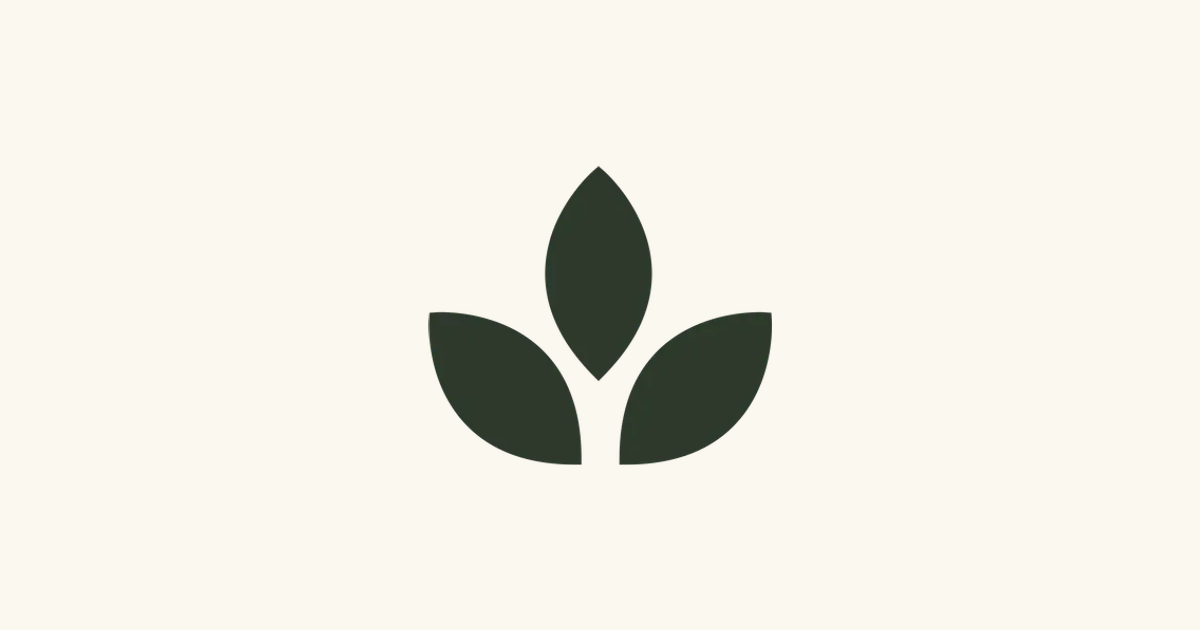
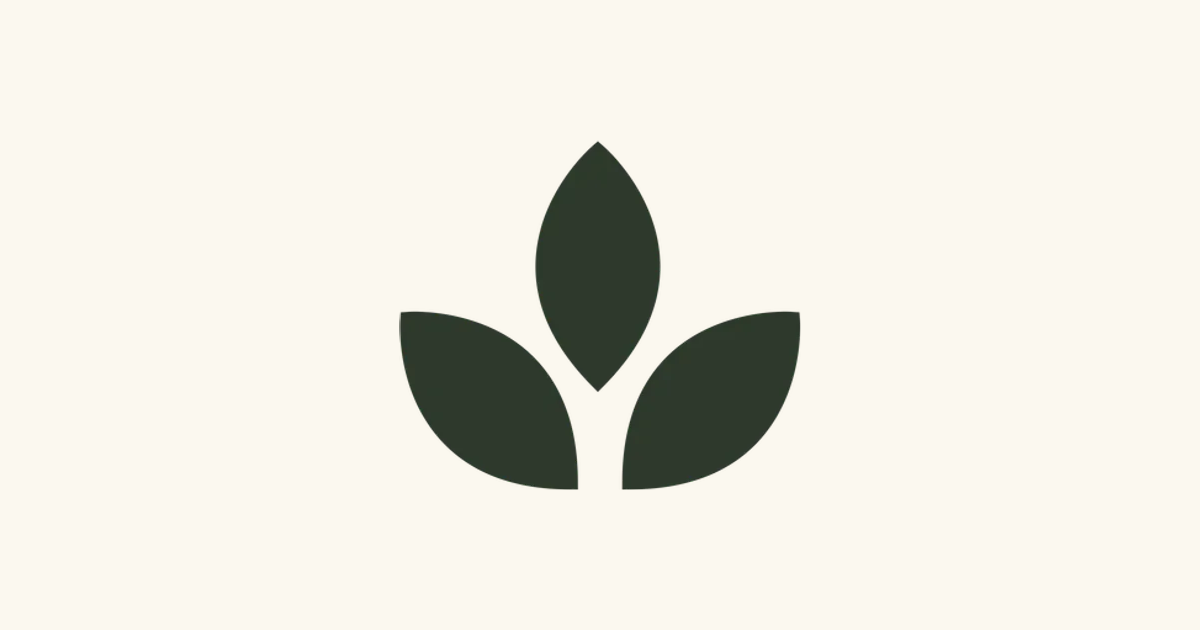
feat(og): agrandar el isotipo y versionar la URL del preview (PROP-114)
Aumenta el tamaño del isotipo en la tarjeta Open Graph (caja 470×350) y agrega
un ?v=2 a la URL de og:image. El versionado fuerza a WhatsApp/redes a
re-descargar el preview, que cachean por URL (por eso seguían mostrando el
logotipo viejo aunque la imagen ya era el isotipo).

Changed region(s): [[0.3083, 0.2111, 0.6783, 0.7841]]

diff --git a/src/data/site.ts b/src/data/site.ts
@@ -19,9 +19,11 @@ export const site = {
     instagram: "https://instagram.com/proposito_uy",
   },
   // Imagen por defecto para previews al compartir (Open Graph / Twitter).
-  // Tarjeta institucional 1200x630 (logo sobre fondo crema). Se regenera con
-  // `npm run og:gen` (scripts/generar-og.mjs). (PROP-112)
-  ogImagen: "/marca/og-proposito.png",
+  // Tarjeta institucional 1200x630 (isotipo sobre fondo crema). Se regenera con
+  // `npm run og:gen` (scripts/generar-og.mjs). (PROP-112 / PROP-114)
+  // El ?v= versiona la URL: al cambiar la imagen, subir el número fuerza a
+  // WhatsApp/redes a re-descargar el preview (que cachean por URL).
+  ogImagen: "/marca/og-proposito.png?v=2",
   // URL de la política de cookies (página legal). El banner muestra el link
   // "Más información" apuntando aquí (PROP-67/PROP-68).
   cookiesPolicyUrl: "/legales/cookies",
